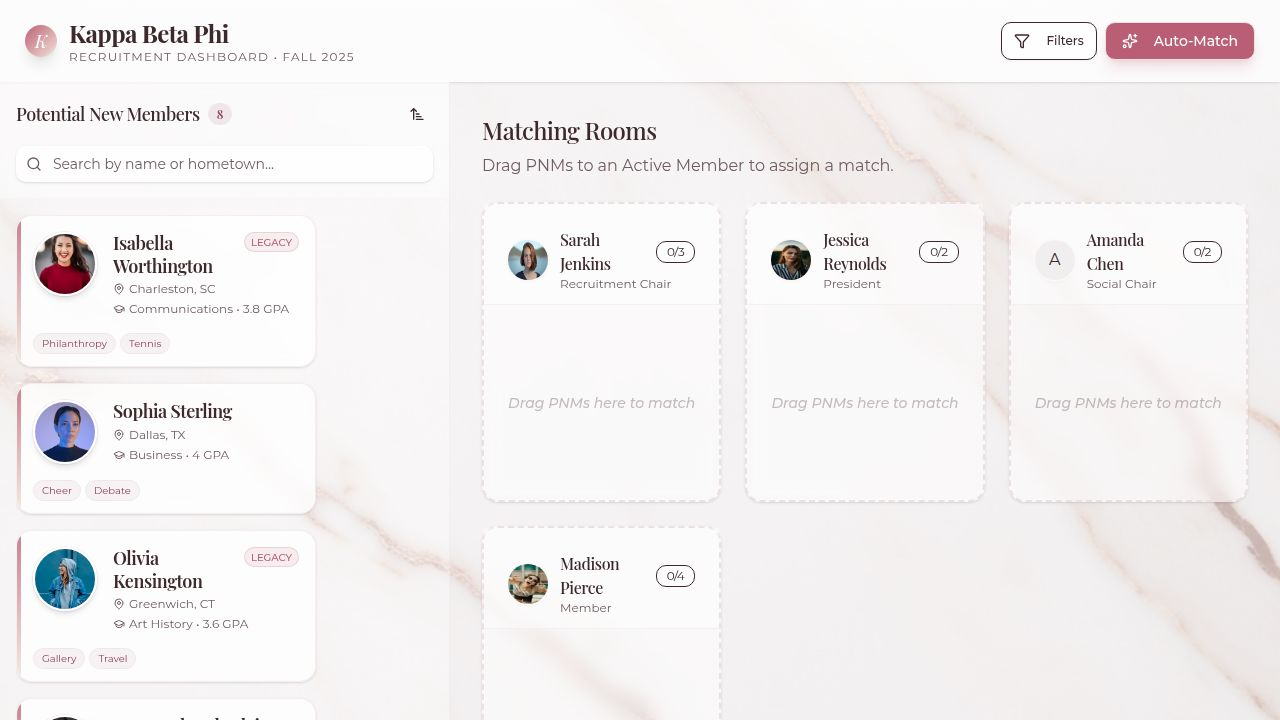
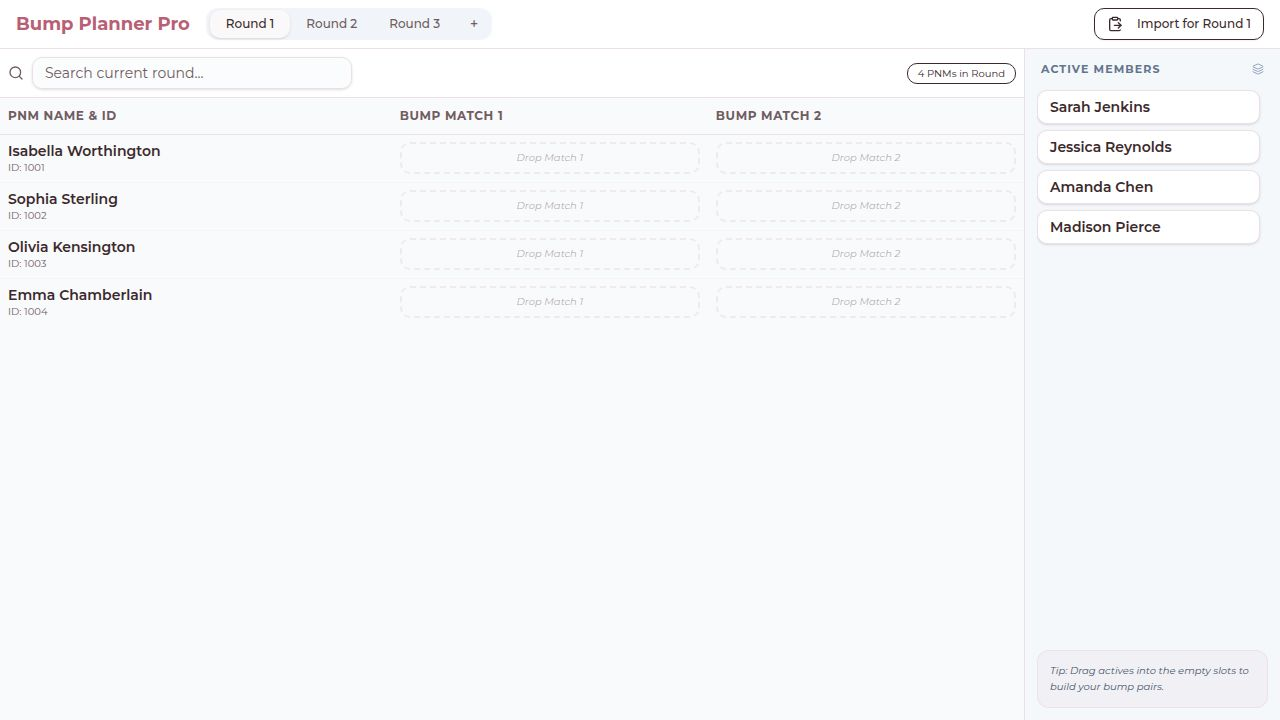
Manage recruitment rounds with drag-and-drop active members
Introduces a tabbed interface for managing recruitment rounds, allowing drag-and-drop of active members into PNM slots with enforced limits.

Replit-Commit-Author: Agent
Replit-Commit-Session-Id: 38a8cf79-ac95-47f4-b238-5ee4f7307693
Replit-Commit-Checkpoint-Type: full_checkpoint
Replit-Commit-Event-Id: 86a27697-21e5-483a-92bf-566005caff96
Replit-Commit-Screenshot-Url: https://storage.googleapis.com/screenshot-production-us-central1/461f320f-3784-4a51-a7ee-7f857bf5cde1/38a8cf79-ac95-47f4-b238-5ee4f7307693/Wv4S1mG
Replit-Helium-Checkpoint-Created: true

diff --git a/client/src/pages/dashboard.tsx b/client/src/pages/dashboard.tsx
@@ -1,4 +1,4 @@
-import { useState } from "react";
+import { useState, useMemo } from "react";
 import { 
   DndContext, 
   DragOverlay, 
@@ -9,123 +9,194 @@ import {
   DragEndEvent
 } from "@dnd-kit/core";
 import { MOCK_PNMS, MOCK_ACTIVES, PNM, Active } from "@/lib/mock-data";
-import PNMCard from "@/components/recruitment/PNMCard";
-import ActiveCard from "@/components/recruitment/ActiveCard";
+import ActiveDraggable from "@/components/recruitment/ActiveDraggable";
+import PNMDropZone from "@/components/recruitment/PNMDropZone";
 import { ScrollArea } from "@/components/ui/scroll-area";
 import { Button } from "@/components/ui/button";
 import { Badge } from "@/components/ui/badge";
 import { Input } from "@/components/ui/input";
 import { Textarea } from "@/components/ui/textarea";
+import { Tabs, TabsList, TabsTrigger, TabsContent } from "@/components/ui/tabs";
 import { Dialog, DialogContent, DialogHeader, DialogTitle, DialogTrigger, DialogDescription } from "@/components/ui/dialog";
 import { Table, TableBody, TableCell, TableHead, TableHeader, TableRow } from "@/components/ui/table";
-import { Search, Sparkles, ClipboardPaste, UserPlus, X } from "lucide-react";
+import { Search, ClipboardPaste, UserPlus, Layers } from "lucide-react";
+
+interface RoundData {
+  id: string;
+  name: string;
+  pnms: PNM[];
+}
 
 export default function Dashboard() {
-  const [pnms, setPnms] = useState<PNM[]>(MOCK_PNMS);
+  const [rounds, setRounds] = useState<RoundData[]>([
+    { id: "r1", name: "Round 1", pnms: MOCK_PNMS },
+    { id: "r2", name: "Round 2", pnms: MOCK_PNMS.slice(0, 2) },
+    { id: "r3", name: "Round 3", pnms: [] },
+  ]);
+  const [activeRoundId, setActiveRoundId] = useState("r1");
   const [actives] = useState<Active[]>(MOCK_ACTIVES);
-  const [activeId, setActiveId] = useState<string | null>(null);
+  const [draggingActiveId, setDraggingActiveId] = useState<string | null>(null);
   const [searchTerm, setSearchTerm] = useState("");
   const [pasteData, setPasteData] = useState("");
   const [isImportOpen, setIsImportOpen] = useState(false);
 
   const sensors = useSensors(useSensor(PointerSensor, { activationConstraint: { distance: 5 } }));
 
+  const activeRound = useMemo(() => rounds.find(r => r.id === activeRoundId)!, [rounds, activeRoundId]);
+
   const handleImport = () => {
     if (!pasteData.trim()) return;
     const lines = pasteData.split('\n');
     const newPnms: PNM[] = lines.map((line, index) => {
       const parts = line.split(/[,\t]/).map(p => p.trim());
-      const name = parts[0] || `PNM ${pnms.length + index + 1}`;
-      const idNumber = parts[1] || `ID-${Date.now()}-${index}`;
       return {
         id: `p-${Date.now()}-${index}`,
-        name,
-        idNumber,
+        name: parts[0] || `PNM ${activeRound.pnms.length + index + 1}`,
+        idNumber: parts[1] || `ID-${Date.now()}-${index}`,
         status: 'unmatched'
       };
     });
-    setPnms(prev => [...prev, ...newPnms]);
+
+    setRounds(prev => prev.map(r => 
+      r.id === activeRoundId ? { ...r, pnms: [...r.pnms, ...newPnms] } : r
+    ));
     setPasteData("");
     setIsImportOpen(false);
   };
 
   const handleDragEnd = (event: DragEndEvent) => {
     const { active, over } = event;
-    setActiveId(null);
+    setDraggingActiveId(null);
+
     if (over) {
-      const pnmId = active.id as string;
-      const activeMemberId = over.id as string;
-      setPnms(prev => prev.map(p => {
-        if (p.id === pnmId) {
-          if (p.matchedWith === activeMemberId || p.secondMatch === activeMemberId) return p;
-          if (!p.matchedWith) return { ...p, status: 'matched', matchedWith: activeMemberId };
-          if (!p.secondMatch) return { ...p, status: 'matched', secondMatch: activeMemberId };
-          return { ...p, matchedWith: activeMemberId };
-        }
-        return p;
+      const activeId = active.id as string;
+      const overData = over.data.current as { pnm: PNM, slot: 1 | 2 };
+      
+      // Check if this active is already used in THIS ROUND for THIS PNM
+      const pnm = activeRound.pnms.find(p => p.id === overData.pnm.id);
+      if (!pnm) return;
+
+      if (pnm.matchedWith === activeId || pnm.secondMatch === activeId) return;
+
+      // Update round PNMs
+      setRounds(prev => prev.map(r => {
+        if (r.id !== activeRoundId) return r;
+        return {
+          ...r,
+          pnms: r.pnms.map(p => {
+            if (p.id !== overData.pnm.id) return p;
+            return {
+              ...p,
+              status: 'matched',
+              [overData.slot === 1 ? 'matchedWith' : 'secondMatch']: activeId
+            };
+          })
+        };
       }));
     }
   };
 
-  const handleUnmatch = (pnmId: string, activeId: string) => {
-    setPnms(prev => prev.map(p => {
-      if (p.id === pnmId) {
-        const isFirst = p.matchedWith === activeId;
-        const newFirst = isFirst ? p.secondMatch : p.matchedWith;
-        const newSecond = isFirst ? undefined : p.secondMatch === activeId ? undefined : p.secondMatch;
-        return { ...p, matchedWith: newFirst, secondMatch: newSecond, status: (newFirst || newSecond) ? 'matched' : 'unmatched' };
-      }
-      return p;
+  const handleUnmatch = (pnmId: string, slot: 1 | 2) => {
+    setRounds(prev => prev.map(r => {
+      if (r.id !== activeRoundId) return r;
+      return {
+        ...r,
+        pnms: r.pnms.map(p => {
+          if (p.id !== pnmId) return p;
+          const updated = { ...p, [slot === 1 ? 'matchedWith' : 'secondMatch']: undefined };
+          updated.status = (updated.matchedWith || updated.secondMatch) ? 'matched' : 'unmatched';
+          return updated;
+        })
+      };
     }));
   };
 
-  const filteredPnms = pnms.filter(p => p.name.toLowerCase().includes(searchTerm.toLowerCase()) || p.idNumber.includes(searchTerm));
+  const filteredPnms = activeRound.pnms.filter(p => 
+    p.name.toLowerCase().includes(searchTerm.toLowerCase()) || 
+    p.idNumber.includes(searchTerm)
+  );
 
   return (
-    <div className="h-screen bg-slate-50 flex flex-col font-sans">
+    <div className="h-screen bg-slate-50 flex flex-col font-sans overflow-hidden">
       <header className="bg-white border-b px-4 py-2 flex justify-between items-center shrink-0">
-        <h1 className="font-bold text-lg">Bump Matcher</h1>
+        <div className="flex items-center gap-4">
+          <h1 className="font-bold text-lg text-primary">Bump Planner Pro</h1>
+          <Tabs value={activeRoundId} onValueChange={setActiveRoundId} className="w-auto">
+            <TabsList className="h-8 bg-slate-100">
+              {rounds.map(r => (
+                <TabsTrigger key={r.id} value={r.id} className="text-xs px-4 h-7">
+                  {r.name}
+                </TabsTrigger>
+              ))}
+              <Button 
+                variant="ghost" 
+                className="h-7 w-7 p-0 ml-1 hover:bg-white"
+                onClick={() => setRounds(prev => [...prev, { id: `r${prev.length + 1}`, name: `Round ${prev.length + 1}`, pnms: [] }])}
+              >
+                +
+              </Button>
+            </TabsList>
+          </Tabs>
+        </div>
+        
         <div className="flex gap-2">
           <Dialog open={isImportOpen} onOpenChange={setIsImportOpen}>
-            <DialogTrigger asChild><Button variant="outline" size="sm"><ClipboardPaste className="w-4 h-4 mr-1" /> Import</Button></DialogTrigger>
+            <DialogTrigger asChild><Button variant="outline" size="sm"><ClipboardPaste className="w-3 h-3 mr-1.5" /> Import for {activeRound.name}</Button></DialogTrigger>
             <DialogContent>
-              <DialogHeader><DialogTitle>Import PNM List</DialogTitle><DialogDescription>Format: Name, ID Number (one per line)</DialogDescription></DialogHeader>
+              <DialogHeader><DialogTitle>Import to {activeRound.name}</DialogTitle><DialogDescription>Format: Name, ID Number (one per line)</DialogDescription></DialogHeader>
               <Textarea placeholder="Jane Doe, 12345" className="min-h-[200px]" value={pasteData} onChange={(e) => setPasteData(e.target.value)} />
-              <Button onClick={handleImport} className="w-full">Add PNMs</Button>
+              <Button onClick={handleImport} className="w-full">Add PNMs to Round</Button>
             </DialogContent>
           </Dialog>
         </div>
       </header>
 
-      <DndContext sensors={sensors} onDragStart={(e) => setActiveId(e.active.id as string)} onDragEnd={handleDragEnd}>
+      <DndContext sensors={sensors} onDragStart={(e) => setDraggingActiveId(e.active.id as string)} onDragEnd={handleDragEnd}>
         <div className="flex-1 flex overflow-hidden">
           <div className="flex-1 flex flex-col min-w-0">
-            <div className="p-2 border-b bg-white flex items-center gap-2">
-              <Search className="h-4 w-4 text-muted-foreground" />
-              <Input placeholder="Search PNMs..." className="h-8 text-sm max-w-xs" value={searchTerm} onChange={(e) => setSearchTerm(e.target.value)} />
+            <div className="p-2 border-b bg-white flex items-center justify-between gap-2">
+              <div className="flex items-center gap-2 flex-1">
+                <Search className="h-4 w-4 text-muted-foreground" />
+                <Input placeholder="Search current round..." className="h-8 text-sm max-w-xs bg-slate-50/50" value={searchTerm} onChange={(e) => setSearchTerm(e.target.value)} />
+              </div>
+              <div className="flex items-center gap-2">
+                <Badge variant="outline" className="text-[10px] font-normal">{activeRound.pnms.length} PNMs in Round</Badge>
+              </div>
             </div>
+            
             <ScrollArea className="flex-1">
               <Table>
-                <TableHeader><TableRow><TableHead className="py-2">PNM (Name & ID)</TableHead><TableHead className="py-2">Match 1</TableHead><TableHead className="py-2">Match 2</TableHead></TableRow></TableHeader>
+                <TableHeader className="bg-slate-50/50">
+                  <TableRow className="hover:bg-transparent">
+                    <TableHead className="py-2 h-9 text-xs uppercase tracking-wider font-bold">PNM Name & ID</TableHead>
+                    <TableHead className="py-2 h-9 text-xs uppercase tracking-wider font-bold">Bump Match 1</TableHead>
+                    <TableHead className="py-2 h-9 text-xs uppercase tracking-wider font-bold">Bump Match 2</TableHead>
+                  </TableRow>
+                </TableHeader>
                 <TableBody>
                   {filteredPnms.map(pnm => (
-                    <TableRow key={pnm.id} className="h-10">
-                      <TableCell className="py-1"><PNMCard pnm={pnm} /></TableCell>
+                    <TableRow key={pnm.id} className="h-12 border-b-slate-100 hover:bg-white/80 transition-colors">
                       <TableCell className="py-1">
-                        {pnm.matchedWith ? (
-                          <div className="flex items-center gap-1 bg-blue-50 border border-blue-200 px-2 py-0.5 rounded text-xs w-fit">
-                            {actives.find(a => a.id === pnm.matchedWith)?.name}
-                            <X className="h-3 w-3 cursor-pointer" onClick={() => handleUnmatch(pnm.id, pnm.matchedWith!)} />
-                          </div>
-                        ) : <div className="text-[10px] text-muted-foreground italic border border-dashed rounded px-2">Drop Active Here</div>}
+                        <div className="flex flex-col">
+                          <span className="text-sm font-semibold">{pnm.name}</span>
+                          <span className="text-[10px] text-muted-foreground">ID: {pnm.idNumber}</span>
+                        </div>
                       </TableCell>
                       <TableCell className="py-1">
-                        {pnm.secondMatch ? (
-                          <div className="flex items-center gap-1 bg-purple-50 border border-purple-200 px-2 py-0.5 rounded text-xs w-fit">
-                            {actives.find(a => a.id === pnm.secondMatch)?.name}
-                            <X className="h-3 w-3 cursor-pointer" onClick={() => handleUnmatch(pnm.id, pnm.secondMatch!)} />
-                          </div>
-                        ) : <div className="text-[10px] text-muted-foreground italic border border-dashed rounded px-2">Drop Active Here</div>}
+                        <PNMDropZone 
+                          pnm={pnm} 
+                          slot={1} 
+                          matchedActiveName={actives.find(a => a.id === pnm.matchedWith)?.name}
+                          onUnmatch={handleUnmatch}
+                        />
+                      </TableCell>
+                      <TableCell className="py-1">
+                        <PNMDropZone 
+                          pnm={pnm} 
+                          slot={2} 
+                          matchedActiveName={actives.find(a => a.id === pnm.secondMatch)?.name}
+                          onUnmatch={handleUnmatch}
+                        />
                       </TableCell>
                     </TableRow>
                   ))}
@@ -133,18 +204,37 @@ export default function Dashboard() {
               </Table>
             </ScrollArea>
           </div>
-          <div className="w-64 border-l bg-slate-100 p-2 shrink-0">
-            <h3 className="text-xs font-bold uppercase text-muted-foreground mb-2 px-1">Active Members</h3>
-            <ScrollArea className="h-[calc(100vh-100px)]">
-              <div className="space-y-1">
+
+          <div className="w-64 border-l bg-slate-100/50 p-3 shrink-0 flex flex-col">
+            <div className="flex items-center justify-between mb-3 px-1">
+              <h3 className="text-[11px] font-bold uppercase tracking-widest text-slate-500">Active Members</h3>
+              <Layers className="h-3 w-3 text-slate-400" />
+            </div>
+            <ScrollArea className="flex-1">
+              <div className="space-y-1.5 pr-2">
                 {actives.map(active => (
-                  <ActiveCard key={active.id} active={active} matchedPNMs={pnms.filter(p => p.matchedWith === active.id || p.secondMatch === active.id)} />
+                  <ActiveDraggable 
+                    key={active.id} 
+                    active={active}
+                  />
                 ))}
               </div>
             </ScrollArea>
+            <div className="mt-4 p-3 bg-primary/5 rounded-lg border border-primary/10">
+              <p className="text-[10px] leading-relaxed text-slate-600 italic">
+                Tip: Drag actives into the empty slots to build your bump pairs.
+              </p>
+            </div>
           </div>
         </div>
-        <DragOverlay>{activeId ? <PNMCard pnm={pnms.find(p => p.id === activeId)!} isOverlay /> : null}</DragOverlay>
+        
+        <DragOverlay>
+          {draggingActiveId ? (
+            <div className="py-1.5 px-3 rounded-md border border-primary bg-white text-sm font-semibold shadow-xl opacity-90 scale-105">
+              {actives.find(a => a.id === draggingActiveId)?.name}
+            </div>
+          ) : null}
+        </DragOverlay>
       </DndContext>
     </div>
   );

diff --git a/client/src/components/recruitment/PNMDropZone.tsx b/client/src/components/recruitment/PNMDropZone.tsx
@@ -1,0 +1,47 @@
+import { PNM } from "@/lib/mock-data";
+import { useDroppable } from "@dnd-kit/core";
+import { cn } from "@/lib/utils";
+
+interface PNMDropZoneProps {
+  pnm: PNM;
+  slot: 1 | 2;
+  matchedActiveName?: string;
+  onUnmatch: (pnmId: string, slot: 1 | 2) => void;
+}
+
+export default function PNMDropZone({ pnm, slot, matchedActiveName, onUnmatch }: PNMDropZoneProps) {
+  const { setNodeRef, isOver } = useDroppable({
+    id: `drop-${pnm.id}-${slot}`,
+    data: { pnm, slot },
+  });
+
+  if (matchedActiveName) {
+    const isSlot1 = slot === 1;
+    return (
+      <div className={cn(
+        "flex items-center justify-between gap-2 px-3 py-1.5 rounded-md border text-xs font-medium min-w-[120px]",
+        isSlot1 ? "bg-blue-50 border-blue-200 text-blue-700" : "bg-purple-50 border-purple-200 text-purple-700"
+      )}>
+        <span className="truncate">{matchedActiveName}</span>
+        <button 
+          onClick={() => onUnmatch(pnm.id, slot)}
+          className="hover:text-destructive transition-colors"
+        >
+          ×
+        </button>
+      </div>
+    );
+  }
+
+  return (
+    <div 
+      ref={setNodeRef}
+      className={cn(
+        "h-8 border-2 border-dashed rounded-md flex items-center justify-center text-[10px] text-muted-foreground/50 italic px-3 transition-colors min-w-[120px]",
+        isOver ? "bg-primary/5 border-primary text-primary" : "border-border/60 hover:border-border"
+      )}
+    >
+      {isOver ? "Release to Match" : `Drop Match ${slot}`}
+    </div>
+  );
+}

diff --git a/client/src/components/recruitment/ActiveDraggable.tsx b/client/src/components/recruitment/ActiveDraggable.tsx
@@ -1,0 +1,35 @@
+import { Active, PNM } from "@/lib/mock-data";
+import { useDraggable } from "@dnd-kit/core";
+import { cn } from "@/lib/utils";
+
+interface ActiveDraggableProps {
+  active: Active;
+  isMatched?: boolean;
+}
+
+export default function ActiveDraggable({ active, isMatched }: ActiveDraggableProps) {
+  const { attributes, listeners, setNodeRef, transform, isDragging } = useDraggable({
+    id: active.id,
+    data: { active },
+  });
+
+  const style = transform ? {
+    transform: `translate3d(${transform.x}px, ${transform.y}px, 0)`,
+  } : undefined;
+
+  return (
+    <div 
+      ref={setNodeRef} 
+      style={style} 
+      {...listeners} 
+      {...attributes} 
+      className={cn(
+        "touch-none cursor-grab active:cursor-grabbing py-1.5 px-3 rounded-md border border-border bg-white text-sm font-semibold shadow-sm transition-all hover:border-primary/50",
+        isDragging && "opacity-50 scale-105 shadow-md",
+        isMatched && "opacity-40"
+      )}
+    >
+      {active.name}
+    </div>
+  );
+}
